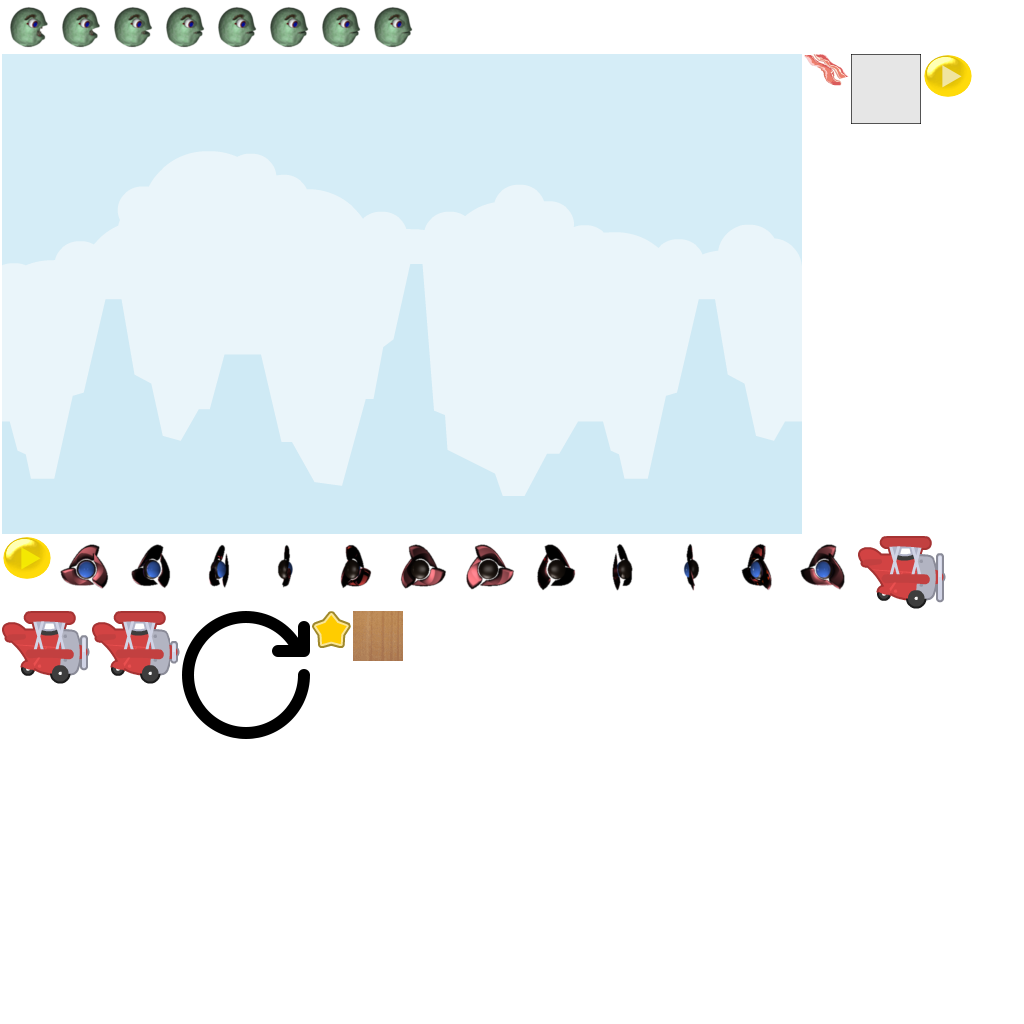
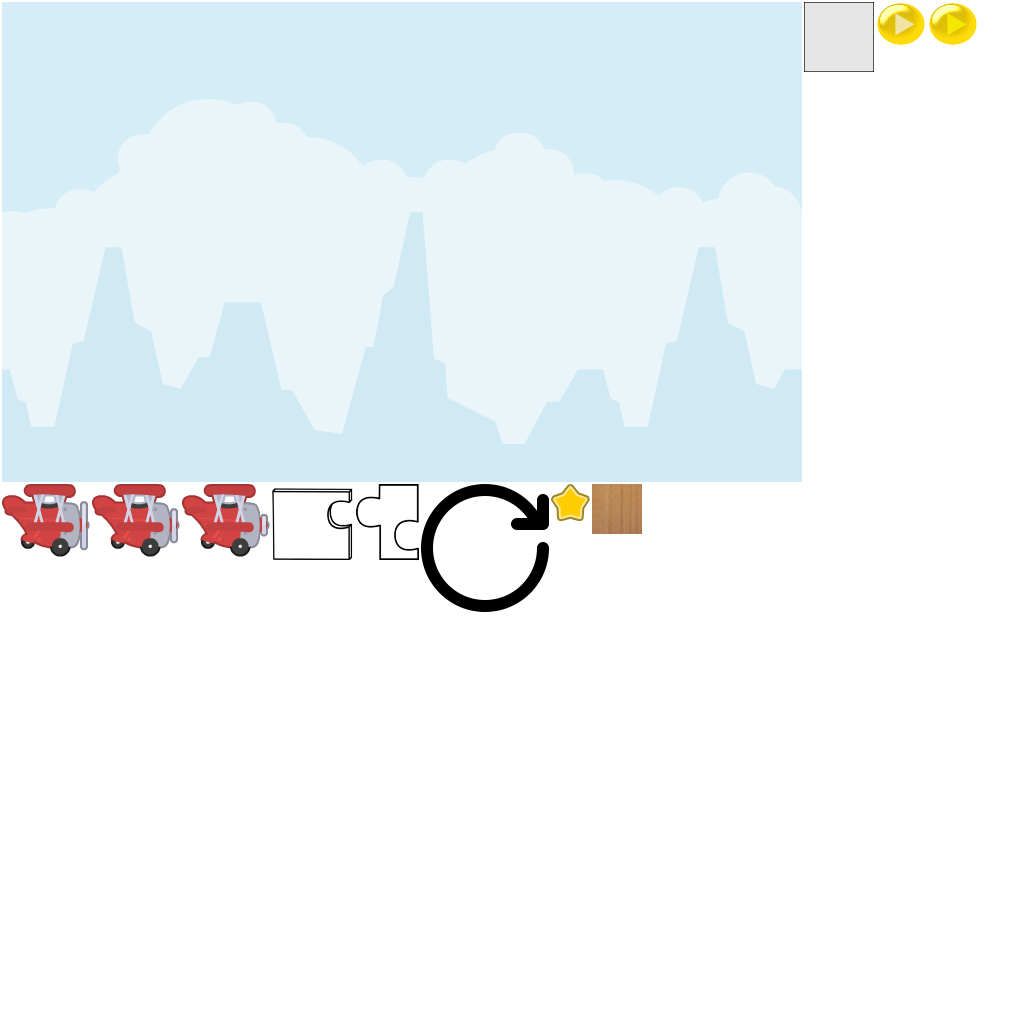
ready to merge to master

Changed region(s): [[0.0, 0.2188, 0.7812, 0.7188], [0.0, 0.0, 0.9688, 0.125], [0.7812, 0.5, 0.9375, 0.5938]]

diff --git a/js/Game.js b/js/Game.js
@@ -6,13 +6,16 @@ var GRAPHLOCY = 0; // the y value of the upper left corner of the graph
 var TICKMARKSIZE = 5; // length of the tickmarks on the graph
 var NUMEQUATIONPOINTS = 20;
 var NUMEQUATIONPOINTSFORANIMATION = 300;
+var XCOEFFPIECEWIDTH = 82;
 var XCOEFFPOSITIONX = 100;
 var XCOEFFPOSITIONY = GRAPHSIZE+100;
-var XEXPONENTPOSITIONX = 100 + 50;
-var XEXPONENTPOSITIONY = GRAPHSIZE+70;
-var CONSTANTPOSITIONX = 100 + 50+ 50;
+var XEXPONENTPIECEWIDTH = 63;
+var XEXPONENTPOSITIONX = XCOEFFPOSITIONX + XCOEFFPIECEWIDTH/2;
+var XEXPONENTPOSITIONY = GRAPHSIZE+100;
+var CONSTANTPOSITIONX = XEXPONENTPOSITIONX + XEXPONENTPIECEWIDTH;
 var CONSTANTPOSITIONY = GRAPHSIZE+100;
-var equationFontStyle = { font: "italic 24px Palatino", fill: "#000000", align: "center" };
+var equationFontStyle = { font: "italic 36px Palatino", fill: "#000000"};
+var exponentFontStyle = { font: "italic 24px Palatino", fill: "#000000"};
 
 var validXCoefficients = [-3, -2, -1, 0, 1, 2, 3];
 var validXExponents = [0, 1, 2, 3];
@@ -49,14 +52,14 @@ function shuffle(array) {
   return array;
 }
 
-TextGamePiece = function(game, originX, originY, value, destinationX, destinationY) {
+TextGamePiece = function(game, originX, originY, value, destinationX, destinationY, spritefile) {
   
-    Phaser.Sprite.call(this, game, originX, originY, 'equationBattleImages', 'woodtile.png');
+    Phaser.Sprite.call(this, game, originX, originY, 'equationBattleImages', spritefile);
                     this.anchor.setTo(0.5, 0.5);
                       game.add.existing(this);
 
 
-    this.createTextObject(originX, originY, value);
+    this.createTextObject(originX, originY + 7, value);
 
     this.value = value;
         this.inputEnabled = true;
@@ -83,7 +86,7 @@ TextGamePiece.prototype.resetValue = function(newValue) {
 };
 TextGamePiece.prototype.update = function() {
   this.textObject.x = this.x;
-  this.textObject.y = this.y;
+  this.textObject.y = this.y + 7;
 };
 TextGamePiece.prototype.dragStart = function(draggedObject) {
         console.log('drag started:');
@@ -107,7 +110,7 @@ else {
         };
 
 function xCoefficientGamePiece(game, originX, originY, value, destinationX, destinationY) {
- TextGamePiece.call(this, game, originX, originY, value, destinationX, destinationY);
+ TextGamePiece.call(this, game, originX, originY, value, destinationX, destinationY, 'puzzle1.png');
 };
 xCoefficientGamePiece.prototype = Object.create(TextGamePiece.prototype);
 xCoefficientGamePiece.prototype.constructor = xCoefficientGamePiece;
@@ -128,10 +131,14 @@ else {
 };
 
 function xExponentGamePiece(game, originX, originY, value, destinationX, destinationY) {
-  TextGamePiece.call(this, game, originX, originY, value, destinationX, destinationY);
+  TextGamePiece.call(this, game, originX, originY, value, destinationX, destinationY, 'puzzle2.png');
 };
 xExponentGamePiece.prototype = Object.create(TextGamePiece.prototype);
 xExponentGamePiece.prototype.constructor = xExponentGamePiece;
+xExponentGamePiece.prototype.createTextObject = function(textLocationX, textLocationY, value) {
+   this.textObject = this.game.add.text(textLocationX, textLocationY, String(value), exponentFontStyle);
+                 this.textObject.anchor.setTo(0.5, 0.5);
+               };
 xExponentGamePiece.prototype.resetValue = function(newValue) {
   this.value = newValue;
   this.textObject.text = String(newValue);
@@ -150,7 +157,7 @@ else {
 };
 
 function constantGamePiece(game, originX, originY, value, destinationX, destinationY) {
-  TextGamePiece.call(this, game, originX, originY, value, destinationX, destinationY);
+  TextGamePiece.call(this, game, originX, originY, value, destinationX, destinationY, 'puzzle1.png');
 };
 constantGamePiece.prototype = Object.create(TextGamePiece.prototype);
 constantGamePiece.prototype.constructor = constantGamePiece;
@@ -351,10 +358,10 @@ console.dir(this.game);
     if (this.userEquation2.pointsArray[i].visible) {
   // console.log('visible point ' + i + ':' + this.userEquation2.pointsArray[i].x + ', ' + this.userEquation2.pointsArray[i].y);
 
-    playerXArray.push(this.userEquation2.pointsArray[i].x);
-    playerYArray.push(this.userEquation2.pointsArray[i].y);
+    playerXArray[i] = this.userEquation2.pointsArray[i].x;
+    playerYArray[i] = this.userEquation2.pointsArray[i].y;
 if (i > 0) {
-    playerRotationArray.push(Math.atan2(playerYArray[i] - playerYArray[i-1], playerXArray[i] - playerXArray[i-1]));
+    playerRotationArray[i] = Math.atan2(playerYArray[i] - playerYArray[i-1], playerXArray[i] - playerXArray[i-1]);
    //     if (player.rotation < 0) {
      //     player.rotation += 2*Math.PI;
           }
@@ -481,7 +488,6 @@ drawGrid: function(gridContext) {
             }
           }
           }
-          //  console.log('alien rotation: ' + this.alien.rotation);
             playerArrayPosition++;
             if (playerArrayPosition > playerXArray.length) {
               playerArrayPosition = 0;
